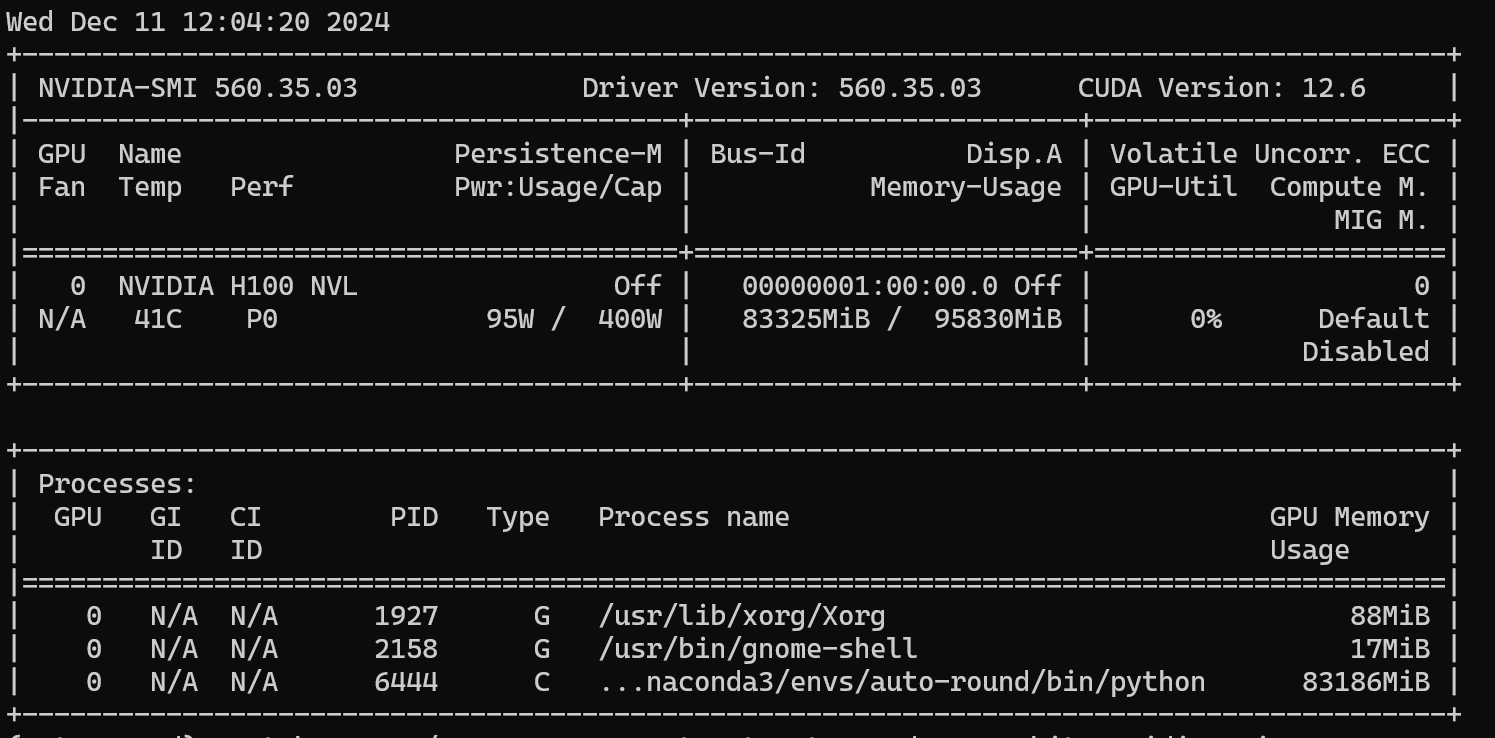
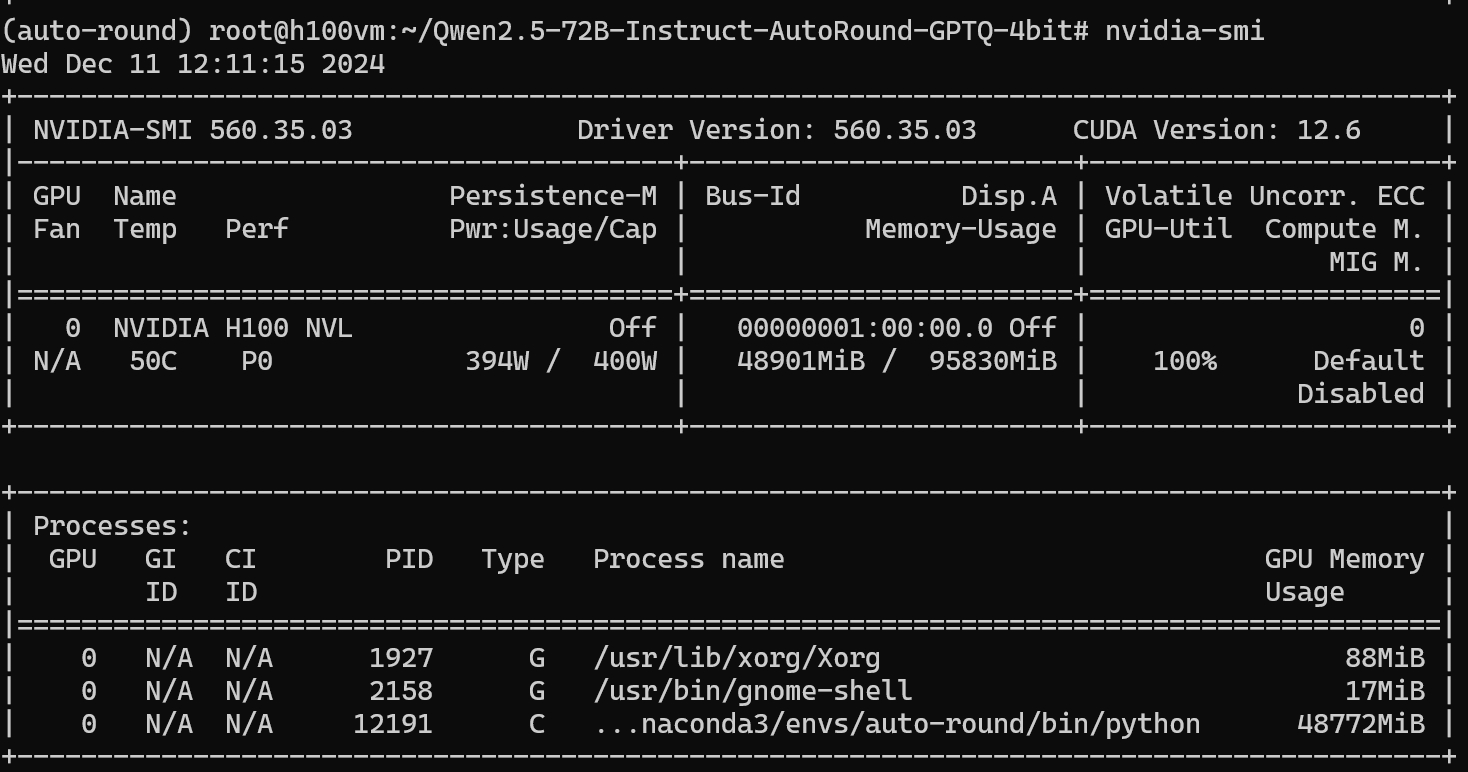
Commit

diff --git a/Deep-Learning/AutoRound-Quantize/readme.md b/Deep-Learning/AutoRound-Quantize/readme.md
@@ -1,0 +1,283 @@
+# Quantization 72B model with AutoRound on Azure NC40ads_H100_v5
+
+This article focuses on model quantization using Intel's open-source tool, AutoRound. In post-quantization, AutoRound's accuracy is relatively high and on par with GPTQ. 
+
+Currently, AutoRound hasn't gained much stars on github, primarily because users are already content with AutoAWQ and AutoGPTQ and aren't seeking better alternatives. However, AutoGPTQ is actually outdated, and AutoAWQ supports only 4-bit quantization. I believe that by the end of 2025, AutoRound will become more popular, especially after its format is integrated into vLLM.
+
+## Quantization Result
+
+First, let's look at the test results. I used a Azure NC40ads_H100_v5 VM with a single H100 GPU, 40 CPU cores, and 320GB of host memory (not fully utilized).
+
+Load Model
+
+```\
+from transformers import AutoModelForCausalLM, AutoTokenizer
+import torch
+model_name = "Qwen/Qwen2.5-72B-Instruct"
+model = AutoModelForCausalLM.from_pretrained(model_name, torch_dtype=torch.float16)
+tokenizer = AutoTokenizer.from_pretrained(model_name)
+```
+
+
+
+CPU Utilization When Loading the Model:
+
+![图片](https://mmbiz.qpic.cn/mmbiz_png/akGXyic486nVlTpOQYOKicPNz6pyHpuV8ficpSuGv3tFjOm9ga3nqq2K5A59rhJCGEKjffItFNy7EjSico8AK1ib5Hg/640?wx_fmt=png&from=appmsg&tp=webp&wxfrom=5&wx_lazy=1&wx_co=1)
+
+4-bit Quantization
+
+```
+from auto_round import AutoRound
+
+bits, group_size, sym = 4, 128, True
+
+autoround = AutoRound(model, tokenizer, nsamples=128, iters=512, low_gpu_mem_usage=True, batch_size=1, graddient_accumulation_steps=8, bits=bits, group_size=group_size, sym=sym)
+
+
+autoround.quantize()
+output_dir = "./Qwen2.5-72B-Instruct-AutoRound-GPTQ-4bit"
+autoround.save_quantized(output_dir, format='auto_gptq', inplace=True)
+```
+
+GPU Memory Utilization During Model Quantization:
+
+![图片](https://mmbiz.qpic.cn/mmbiz_png/akGXyic486nVlTpOQYOKicPNz6pyHpuV8fudsKjibAY1d8PDiajficM6PZE0gt66hGAicOnFjlfib7476QHG9KzIcdsMQ/640?wx_fmt=png&from=appmsg&tp=webp&wxfrom=5&wx_lazy=1&wx_co=1)
+
+The quantization action is layer by layer:
+
+``` 
+/root/anaconda3/envs/auto-round/lib/python3.11/site-packages/torch/autograd/graph.py:825: UserWarning: Flash Attention defaults to a non-deterministic algorithm. To explicitly enable determinism call torch.use_deterministic_algorithms(True, warn_only=False). (Triggered internally at ../aten/src/ATen/native/transformers/cuda/attention_backward.cu:102.)
+  return Variable._execution_engine.run_backward(  # Calls into the C++ engine to run the backward pass
+Quantizing model.layers.61:  76%|███████▋  | 61/80 [1:03:33<20:01, 63.23s/it]
+```
+
+```
+Quantizing model.layers.79: 100%|██████████| 80/80 [1:23:37<00:00, 63.50s/it]2024-12-11 09:48:59 INFO autoround.py L340: quantization tuning time 5037.20055103302
+2024-12-11 09:48:59 INFO autoround.py L356: Summary: quantized 560/561 in the model,  ['lm_head'] have not been quantized
+Quantizing model.layers.79: 100%|██████████| 80/80 [1:23:37<00:00, 62.72s/it]
+2024-12-11 09:48:59 INFO export.py L125: Saving quantized model to autogptq format, this may take a while...
+packing lm_head: 100%|██████████| 561/561 [11:55<00:00,  1.27s/it]   
+```
+
+```
+Qwen2ForCausalLM(
+  (model): Qwen2Model(
+    (embed_tokens): Embedding(152064, 8192)
+    (layers): ModuleList(
+      (0-79): 80 x Qwen2DecoderLayer(
+        (self_attn): Qwen2SdpaAttention(
+          (q_proj): QuantLinear()
+          (k_proj): QuantLinear()
+          (v_proj): QuantLinear()
+          (o_proj): QuantLinear()
+          (rotary_emb): Qwen2RotaryEmbedding()
+        )
+        (mlp): Qwen2MLP(
+          (gate_proj): QuantLinear()
+          (up_proj): QuantLinear()
+          (down_proj): QuantLinear()
+          (act_fn): SiLU()
+        )
+        (input_layernorm): Qwen2RMSNorm((8192,), eps=1e-06)
+        (post_attention_layernorm): Qwen2RMSNorm((8192,), eps=1e-06)
+      )
+    )
+    (norm): Qwen2RMSNorm((8192,), eps=1e-06)
+    (rotary_emb): Qwen2RotaryEmbedding()
+  )
+  (lm_head): Linear(in_features=8192, out_features=152064, bias=False)
+)
+```
+
+
+
+```
+(auto-round) root@h100vm:~# ls -al ./Qwen2.5-72B-Instruct-AutoRound-GPTQ-4bit
+total 40533644
+drwxr-xr-x  2 root root       4096 Dec 10 16:50 .
+drwx------ 47 root root       4096 Dec 10 16:37 ..
+-rw-r--r--  1 root root        605 Dec 11 09:48 added_tokens.json
+-rw-r--r--  1 root root       1376 Dec 11 10:00 config.json
+-rw-r--r--  1 root root        243 Dec 11 10:00 generation_config.json
+-rw-r--r--  1 root root    1671853 Dec 11 09:48 merges.txt
+-rw-r--r--  1 root root 4977604760 Dec 11 10:00 model-00001-of-00009.safetensors
+-rw-r--r--  1 root root 4893894648 Dec 11 10:01 model-00002-of-00009.safetensors
+-rw-r--r--  1 root root 4984871048 Dec 11 10:01 model-00003-of-00009.safetensors
+-rw-r--r--  1 root root 4976067496 Dec 11 10:02 model-00004-of-00009.safetensors
+-rw-r--r--  1 root root 4893776280 Dec 11 10:02 model-00005-of-00009.safetensors
+-rw-r--r--  1 root root 4893894800 Dec 11 10:02 model-00006-of-00009.safetensors
+-rw-r--r--  1 root root 4893894808 Dec 11 10:03 model-00007-of-00009.safetensors
+-rw-r--r--  1 root root 4484842920 Dec 11 10:03 model-00008-of-00009.safetensors
+-rw-r--r--  1 root root 2491416704 Dec 11 10:03 model-00009-of-00009.safetensors
+-rw-r--r--  1 root root     215614 Dec 11 10:04 model.safetensors.index.json
+-rw-r--r--  1 root root        569 Dec 11 10:04 quantize_config.json
+-rw-r--r--  1 root root        613 Dec 11 09:48 special_tokens_map.json
+-rw-r--r--  1 root root   11421896 Dec 11 09:48 tokenizer.json
+-rw-r--r--  1 root root       7336 Dec 11 09:48 tokenizer_config.json
+-rw-r--r--  1 root root    2776833 Dec 11 09:48 vocab.json
+(auto-round) root@h100vm:~#
+```
+
+
+
+AutoRound can produce models in the same format as GPTQ, support TGI, vLLM, etc.
+
+Inference with vLLM
+
+```
+
+batch_sizes = [1, 2, 4, 8, 16, 32, 64, 128]  
+p = """You are a helpful, respectful and honest assistant. Always answer as helpfully as possible, while being safe. Your answers should not include any harmful, unethical, racist, sexist, toxic, dangerous, or illegal content. Please ensure that your responses are socially unbiased and positive in nature.  
+  
+If a question does not make any sense, or is not factually coherent, explain why instead of answering something not correct. If you don't know the answer to a question, please don't share false information.  
+  
+Tell me about gravity."""  
+  
+sampling_params = SamplingParams(max_tokens=1000)  
+  
+loading_start = time.time()  
+llm = LLM(model="/root/Qwen2.5-72B-Instruct-AutoRound-GPTQ-4bit")  
+print("--- Loading time: %s seconds ---" % (time.time() - loading_start))  
+  
+for b in batch_sizes:  
+    prompts = [p] * b  # 创建包含 b 个相同提示的列表  
+  
+    generation_time = time.time()  
+    outputs = llm.generate(prompts, sampling_params)  
+    duration = time.time() - generation_time  
+    total_tokens = 0  
+    for output in outputs:  
+        total_tokens += len(output.prompt_token_ids) + len(output.outputs[0].token_ids)  
+    print('\nBatch size: ' + str(b))  
+    print("--- Speed: %s tokens/second ---" % (round(total_tokens/duration, 2)))  
+```
+
+
+
+## Understanding AutoRound Literally
+
+"AutoRound" is composed of two English words:
+
+- **Auto**: An abbreviation of "Automatic," meaning automatic.
+
+- **Round**: In mathematics and computer science, it refers to the rounding or truncation operation, i.e., converting numbers from high precision (more decimal places) to low precision (fewer decimal places) or integers.
+
+  Therefore, "AutoRound" can be understood as "Automatic Rounding" or "Automatic Truncation." In the context of model quantization and deep learning, this name represents the main function of the tool:
+
+  Automatically rounding the model's high-precision parameters to low-precision representations; that is, automatically converting the high-precision weights in a model (such as 32-bit floating-point numbers) to low-precision numerical formats (such as 4-bit, 2-bit), thereby achieving model compression and acceleration.
+
+  AutoRound uses an automated approach to intelligently round model parameters, combining optimization algorithms to reduce model size and computational resources while preserving the model's performance and accuracy as much as possible.
+
+
+Next, let's go into more detail.
+
+### How Does AutoRound Quantize Models?
+
+AutoRound is an intelligent model quantization tool. Its main features and advantages are:
+
+**No Need for Calibration Dataset:**
+
+- **No Additional Dataset Required**: AutoRound can quantize models without relying on a calibration dataset. This means you can perform quantization even if you don't have a special calibration dataset.
+- **Internal Mechanism**: AutoRound leverages the model's own structure and parameter distribution to automatically optimize and minimize the accuracy loss caused by quantization as much as possible.
+
+#### Intelligent Optimization Strategy
+
+- **Automatic Rounding Optimization**: AutoRound uses advanced optimization algorithms to intelligently decide how to quantize each parameter during the quantization process, minimizing quantization errors.
+- **Global Consideration**: Unlike traditional layer-wise or channel-wise quantization, AutoRound optimizes the quantization scheme on a global scale to achieve better overall results.
+
+#### Low Memory Footprint:
+
+- **Efficient Memory Management**: When quantizing large models, AutoRound provides a `low_gpu_mem_usage` parameter, which can shift some computations to the CPU to reduce GPU memory usage.
+- **Suitable for Consumer-grade Hardware**: This allows for quantization of large models (e.g., models with 70B parameters) even on graphics cards with relatively small memory (such as RTX 3090, RTX 4090).
+
+## What is Automatic Rounding Optimization
+
+Automatic Rounding Optimization is the core technology of AutoRound. It treats the model quantization process as an optimization problem, using mathematical methods to globally find the optimal parameter rounding scheme. In this process, AutoRound doesn't just independently round each parameter but considers the overall impact of all parameters on the model's performance, intelligently deciding how each parameter should be quantized.
+
+**Traditional Quantization vs. AutoRound's Automatic Rounding Optimization**
+
+**Traditional Quantization Methods:**
+
+- **Point-wise Rounding**: Independently round or truncate each weight, converting floating-point numbers to low-precision representations individually.
+
+- **Local Optimality**: Each weight's quantization is based on its own value, without considering its role in the entire model.
+
+- **Accumulated Quantization Error**: Since the relationships between parameters are not considered, quantization errors may accumulate in the model, leading to significant performance degradation.
+
+  **AutoRound's Automatic Rounding Optimization:**
+
+- **Global Optimization**: Treats the quantization of the entire model as a holistic optimization problem, aiming to minimize the error in the model's outputs after quantization.
+
+- **Consideration of Parameter Importance**: Analyzes the impact of parameters on the model's output, giving priority to protecting parameters critical to performance.
+
+- **Intelligent Rounding Decisions**: Based on optimization results, intelligently decides which parameters should be rounded up or down, and even allows different parameters to have different quantization strategies.
+
+## Working Principle of AutoRound's Automatic Rounding Optimization 
+
+### 1. Treating Quantization as an Optimization Problem
+
+- **Objective Function**: AutoRound aims to minimize the output difference between the quantized model and the original model, i.e., minimizing the quantization error.
+- **Constraints**: Quantize model parameters under certain bit widths (e.g., 4-bit, 2-bit) and quantization schemes (e.g., symmetric quantization, asymmetric quantization).
+
+### 2. Using Optimization Algorithms to Solve
+
+- **Continuous Relaxation**: Since quantized parameters are discrete (e.g., can only take specific quantization levels), direct optimization is difficult. AutoRound converts the discrete quantization problem into a continuous optimization problem, making optimization algorithms applicable.
+- **Gradient Descent Method**: Using the model's gradient information, AutoRound can compute the impact of the quantization error of each parameter on the model's output.
+- **Integer Programming**: In some cases, AutoRound transforms the quantization problem into an integer programming problem, finding the optimal quantization scheme by solving integer variables.
+
+### 3. Intelligent Decision of Quantization Method for Each Parameter
+
+- Parameter Importance Analysis:
+  - **Sensitivity Evaluation**: Assess the impact of each parameter on the model's output. Parameters that significantly affect the model's output are considered "important" to model performance.
+  - **Prioritizing Key Parameters**: For highly important parameters, more precise quantization schemes may be used during quantization, or excessive rounding may be avoided.
+- Dynamic Quantization Strategy:
+  - **Non-uniform Quantization**: Unlike traditional methods that treat all parameters equally, AutoRound can use different quantization steps or strategies for different parameters.
+  - **Adaptive Rounding**: Based on optimization results, intelligently decide whether each parameter should be rounded up or down to minimize the overall quantization error.
+
+### 4. Iterative Optimization
+
+- **Multiple Iterations**: Through multiple iterative optimizations, continuously adjust the quantization scheme of parameters to gradually approach the optimal solution.
+
+- **Error Feedback**: In each iteration, use the difference between the output of the quantized model and the original model to feed back into the optimization process, guiding the next rounding decision.
+
+  
+
+## Illustration of Automatic Rounding Optimization with Examples 
+
+**Hypothetical Scenario:**
+
+- **Model Parameters**: Suppose we have a set of model parameters: [2.3, -1.7, 0.5, -0.2].
+
+- **Quantization Bit Width**: We want to quantize the parameters to a 2-bit representation, which means parameters can only take a limited number of values (e.g., -2, -1, 0, 1).
+
+  **Traditional Quantization Method:**
+
+- Independent Rounding:
+
+  - 2.3 → 2
+  - -1.7 → -2
+  - 0.5 → 1
+  - -0.2 → 0
+
+- **Issue**: This method doesn't consider the relationships between parameters or their impact on the model's output, which may lead to performance degradation.
+
+  **AutoRound's Automatic Rounding Optimization:**
+
+- **Global Consideration**: AutoRound calculates the impact of different quantization values for each parameter on the model's output.
+
+- Optimization Decisions:
+
+  - **2.3**: It's a positive number, close to 2 or 3. Through calculation, it's found that quantizing to 3 is more beneficial to model performance, so 3 is chosen.
+  - **-1.7**: Although close to -2, quantizing to -1 may result in a smaller overall error, so -1 is chosen.
+  - **0.5**: Quantize to 0 or 1; through calculation, the value more beneficial to the model is chosen.
+  - **-0.2**: Close to 0, may be directly quantized to 0.
+
+- Final Quantization Results:
+
+  - 2.3 → 3
+  - -1.7 → -1
+  - 0.5 → 1
+  - -0.2 → 0
+
+- **Effect**: Through intelligent decisions, the overall error may be smaller than simple rounding, and the model's performance degradation is less.
+
